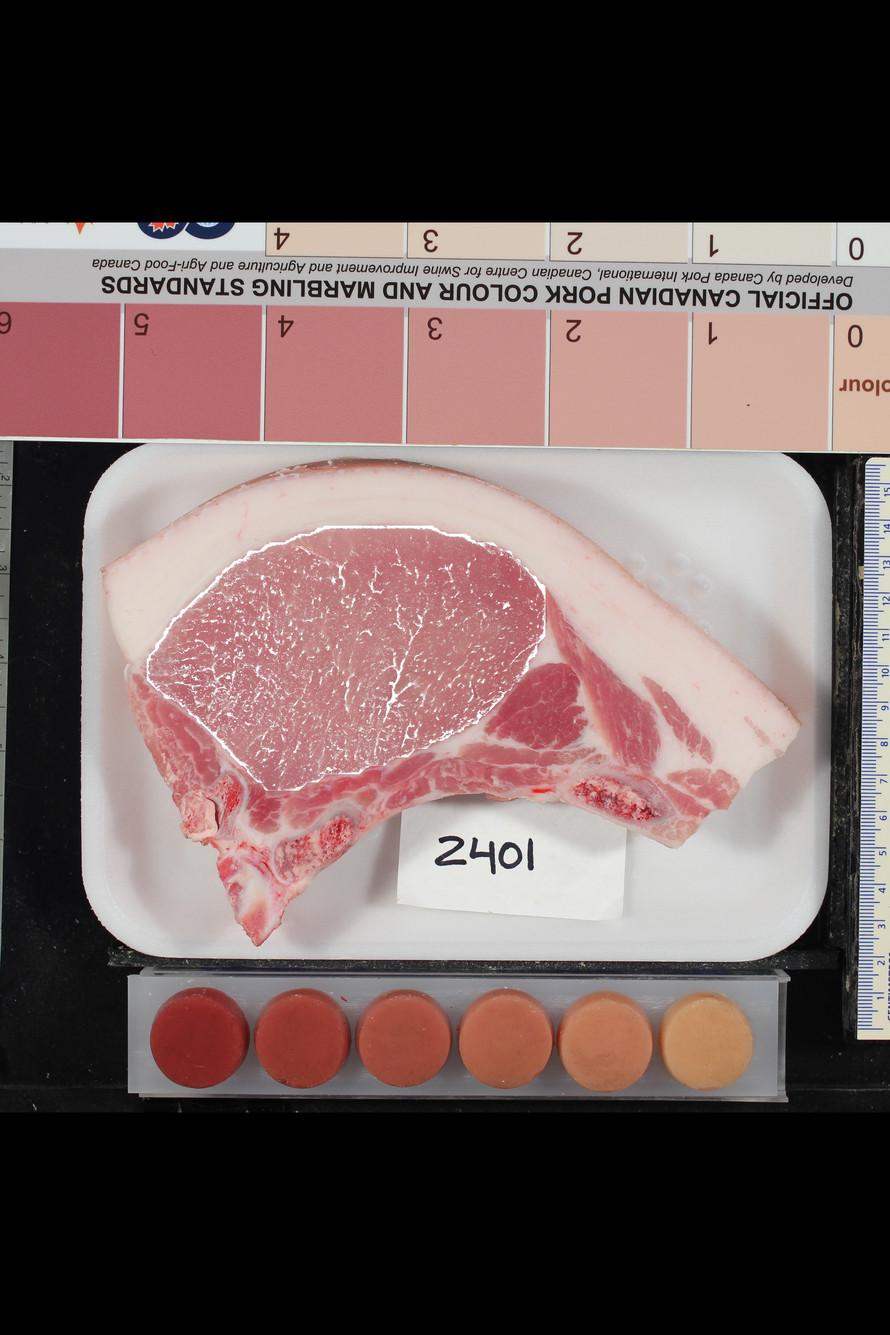
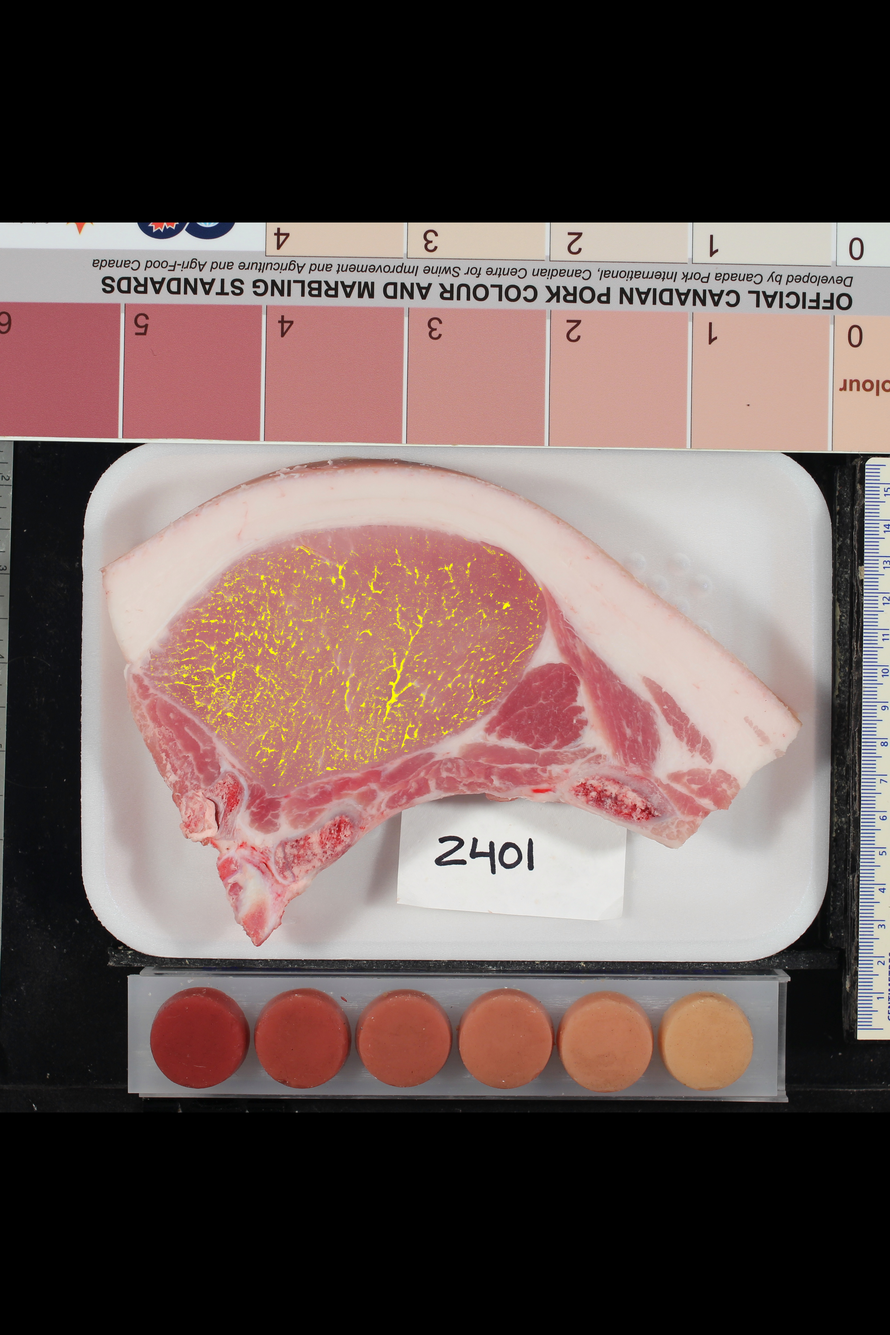
Add contour detection function to remove white outline of the mask

Changed region(s): [[0.1562, 0.4062, 0.625, 0.5938]]

diff --git a/src/utils/marbling.py b/src/utils/marbling.py
@@ -74,7 +74,13 @@ def extract_marbling(enhanced_image, muscle_mask):
     kernel = np.ones((1, 1), np.uint8)
     marbling_mask = cv2.morphologyEx(marbling_mask, cv2.MORPH_OPEN, kernel, iterations=1)
     
+    marbling_mak = contour_detection(marbling_mask)
     return marbling_mask
+
+def contour_detection(marbling_mask):
+    contours, hierarchy = cv2.findContours(marbling_mask, cv2.RETR_TREE, cv2.CHAIN_APPROX_NONE)
+    contour_mask = cv2.drawContours(marbling_mask, contours, 0, color=(0,0,0), thickness=30)
+    return contour_mask
 
 def convert_fat_color(image):
     '''
